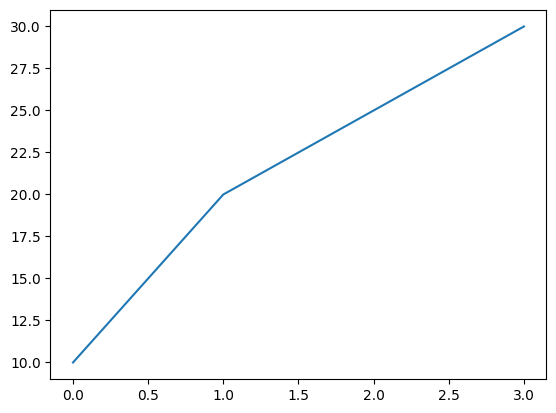
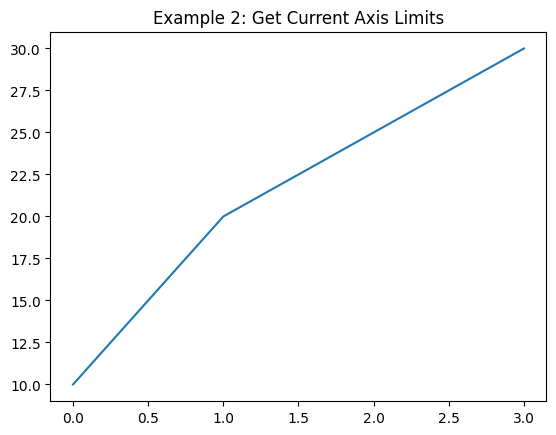
Add clean xlim example with images and markdown

diff --git a/content/matplotlib/concepts/pyplot/terms/xlim/xlim.md b/content/matplotlib/concepts/pyplot/terms/xlim/xlim.md
@@ -1,0 +1,88 @@
+---
+Title: '.xlim()'
+Description: 'Used to get or set the x-axis limits of the current axes in Matplotlib plot'
+Subjects:
+  - 'Data Science'
+  - 'Data Visualization'
+Tags:
+  - 'Functions'
+  - 'Matplotlib'
+  - 'Subplots'
+CatalogContent:
+  - 'learn-python-3'
+  - 'paths/data-science'
+---
+
+The **`.xlim()`** function is a convenient utility in [`matplotlib.pyplot`](https://www.codecademy.com/resources/docs/matplotlib/pyplot) that is used to get or set the x-axis limits of the current plot. It allows you to control the visible range of data on the x-axis, zoom in on specific sections, or ensure consistency across multiple plots.
+
+The primary use cases for `.xlim()` include:
+
+- Focusing on a particular range of x-values.
+- Maintaining consistent axis scaling between multiple plots.
+- Preventing automatic resizing that hides important data.
+
+## Syntax
+
+```pseudo
+matplotlib.pyplot.xlim(left=None, right=None, emit=True, auto=False, *, xmin=None, xmax=None)
+```
+
+**Parameters:**
+
+- `left` or `xmin`: Lower limit of the x-axis.
+- `right` or `xmax`: Upper limit of the x-axis.
+- `emit`: Whether observers are notified of the axis limit change (default: True).
+- `auto`: If True, turns on automatic scaling.
+
+**Return value:**
+
+The `.xlim()` function returns a tuple containing (xmin, xmax) representing the current x-axis limits.
+
+## Example 1: Basic X-Axis Limit Setting with `.xlim()`
+
+This example shows how to set specific x-axis limits using `.xlim()`.
+
+```py
+import matplotlib.pyplot as plt
+import numpy as np
+
+x = np.linspace(0, 20, 100)
+y = np.sin(x)
+
+plt.plot(x, y, color='purple', linewidth=2)
+plt.title('Sine Wave with Custom X Limits')
+plt.xlabel('X')
+plt.ylabel('sin(x)')
+
+# Set x-axis limits
+plt.xlim(0, 10)
+
+plt.grid(True)
+plt.show()
+```
+
+The output generated by this code will be:
+
+![Line plot showing sine wave with limited x-axis range](https://raw.githubusercontent.com/SrikartikMateti/docs/main/media/xlim-Plot-1.png)
+
+This code plots a sine wave from 0 to 20 on the x-axis, but the `plt.xlim(0, 10)` command restricts the visible range to only show data between x = 0 and x = 10. As a result, you see only the first half of the sine wave. The curve appears smooth and purple, with grid lines and labeled axes for clarity.
+
+## Example 2: Get Current Axis Limits
+
+You can call `.xlim()` with no arguments to retrieve the current axis limits
+
+```py
+import matplotlib.pyplot as plt
+
+plt.plot([0, 1, 2, 3], [10, 20, 25, 30])
+print(plt.xlim())  # Outputs current x-axis limits
+```
+
+The output generated by this code will be:
+
+![Line plot of points (0,10), (1,20), (2,25), (3,30) with automatically determined x-axis limits.](https://raw.githubusercontent.com/SrikartikMateti/docs/main/media/xlim-Plot-2.png)
+
+In this case, the output:
+(np.float64(-0.15), np.float64(3.15))
+indicates that Matplotlib automatically adds a small margin around the plotted points for better visualization.
+You can also use `.xlim()` after plotting to dynamically adjust the x-axis limits, as shown in Example 1.
